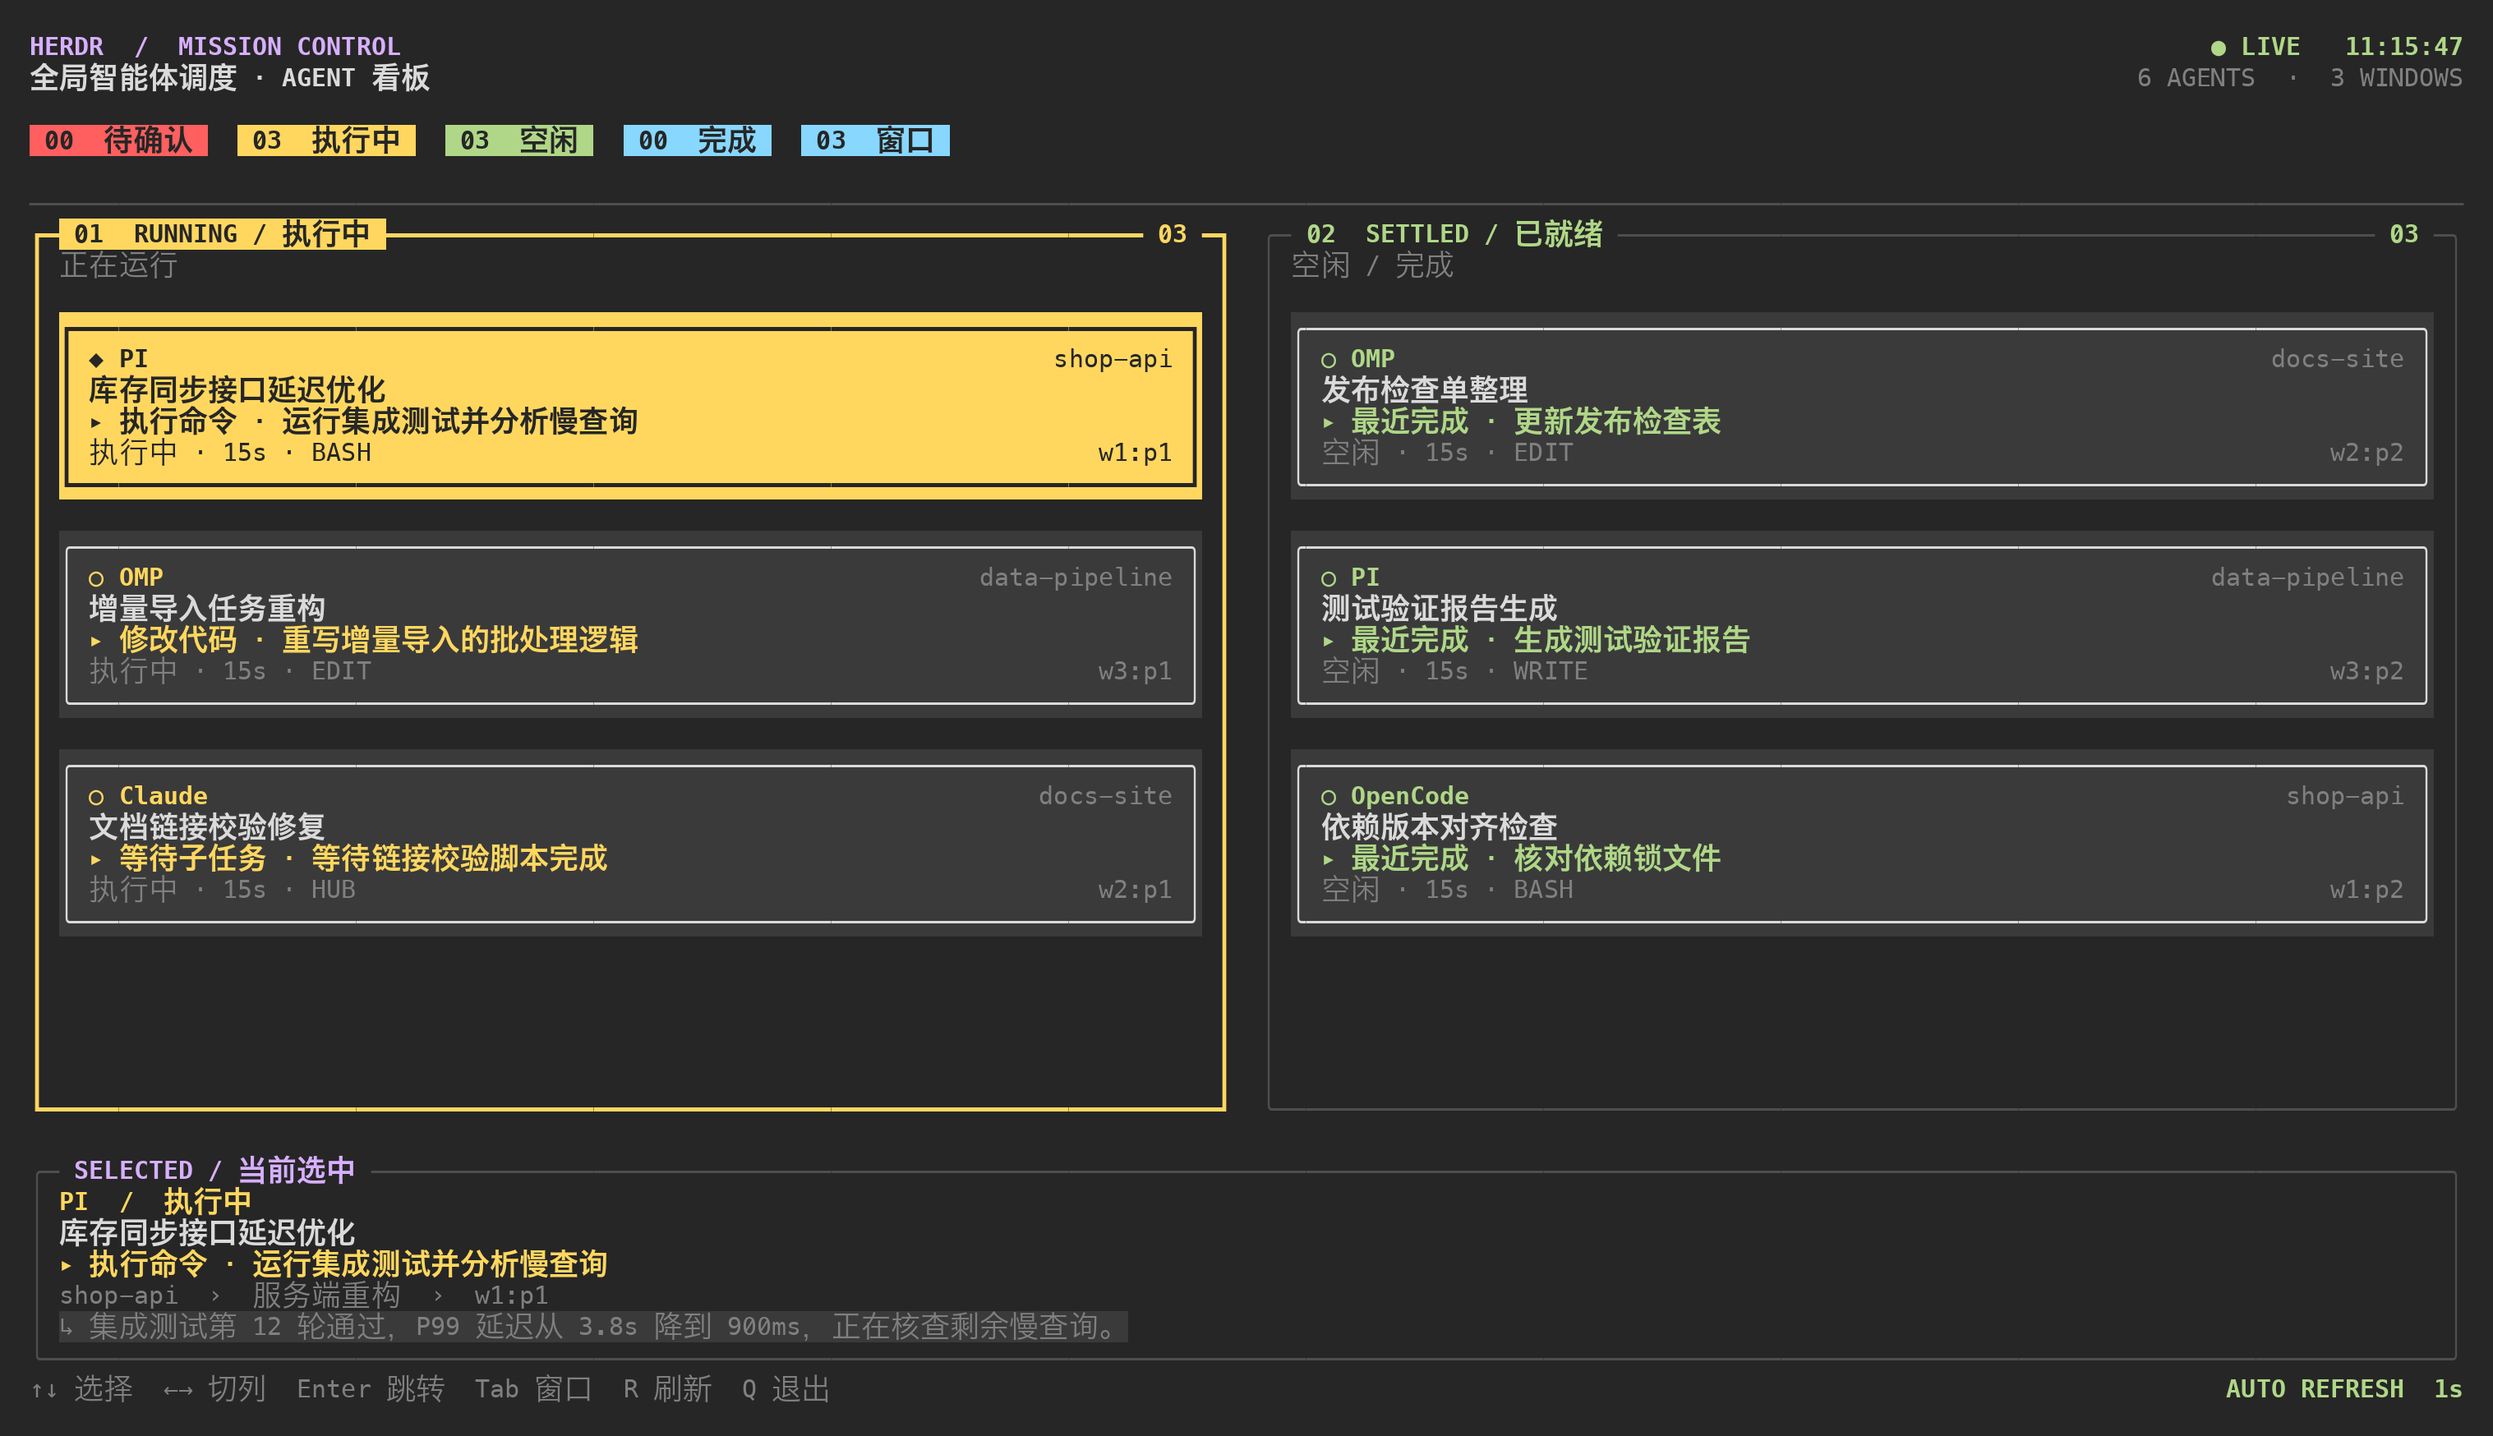
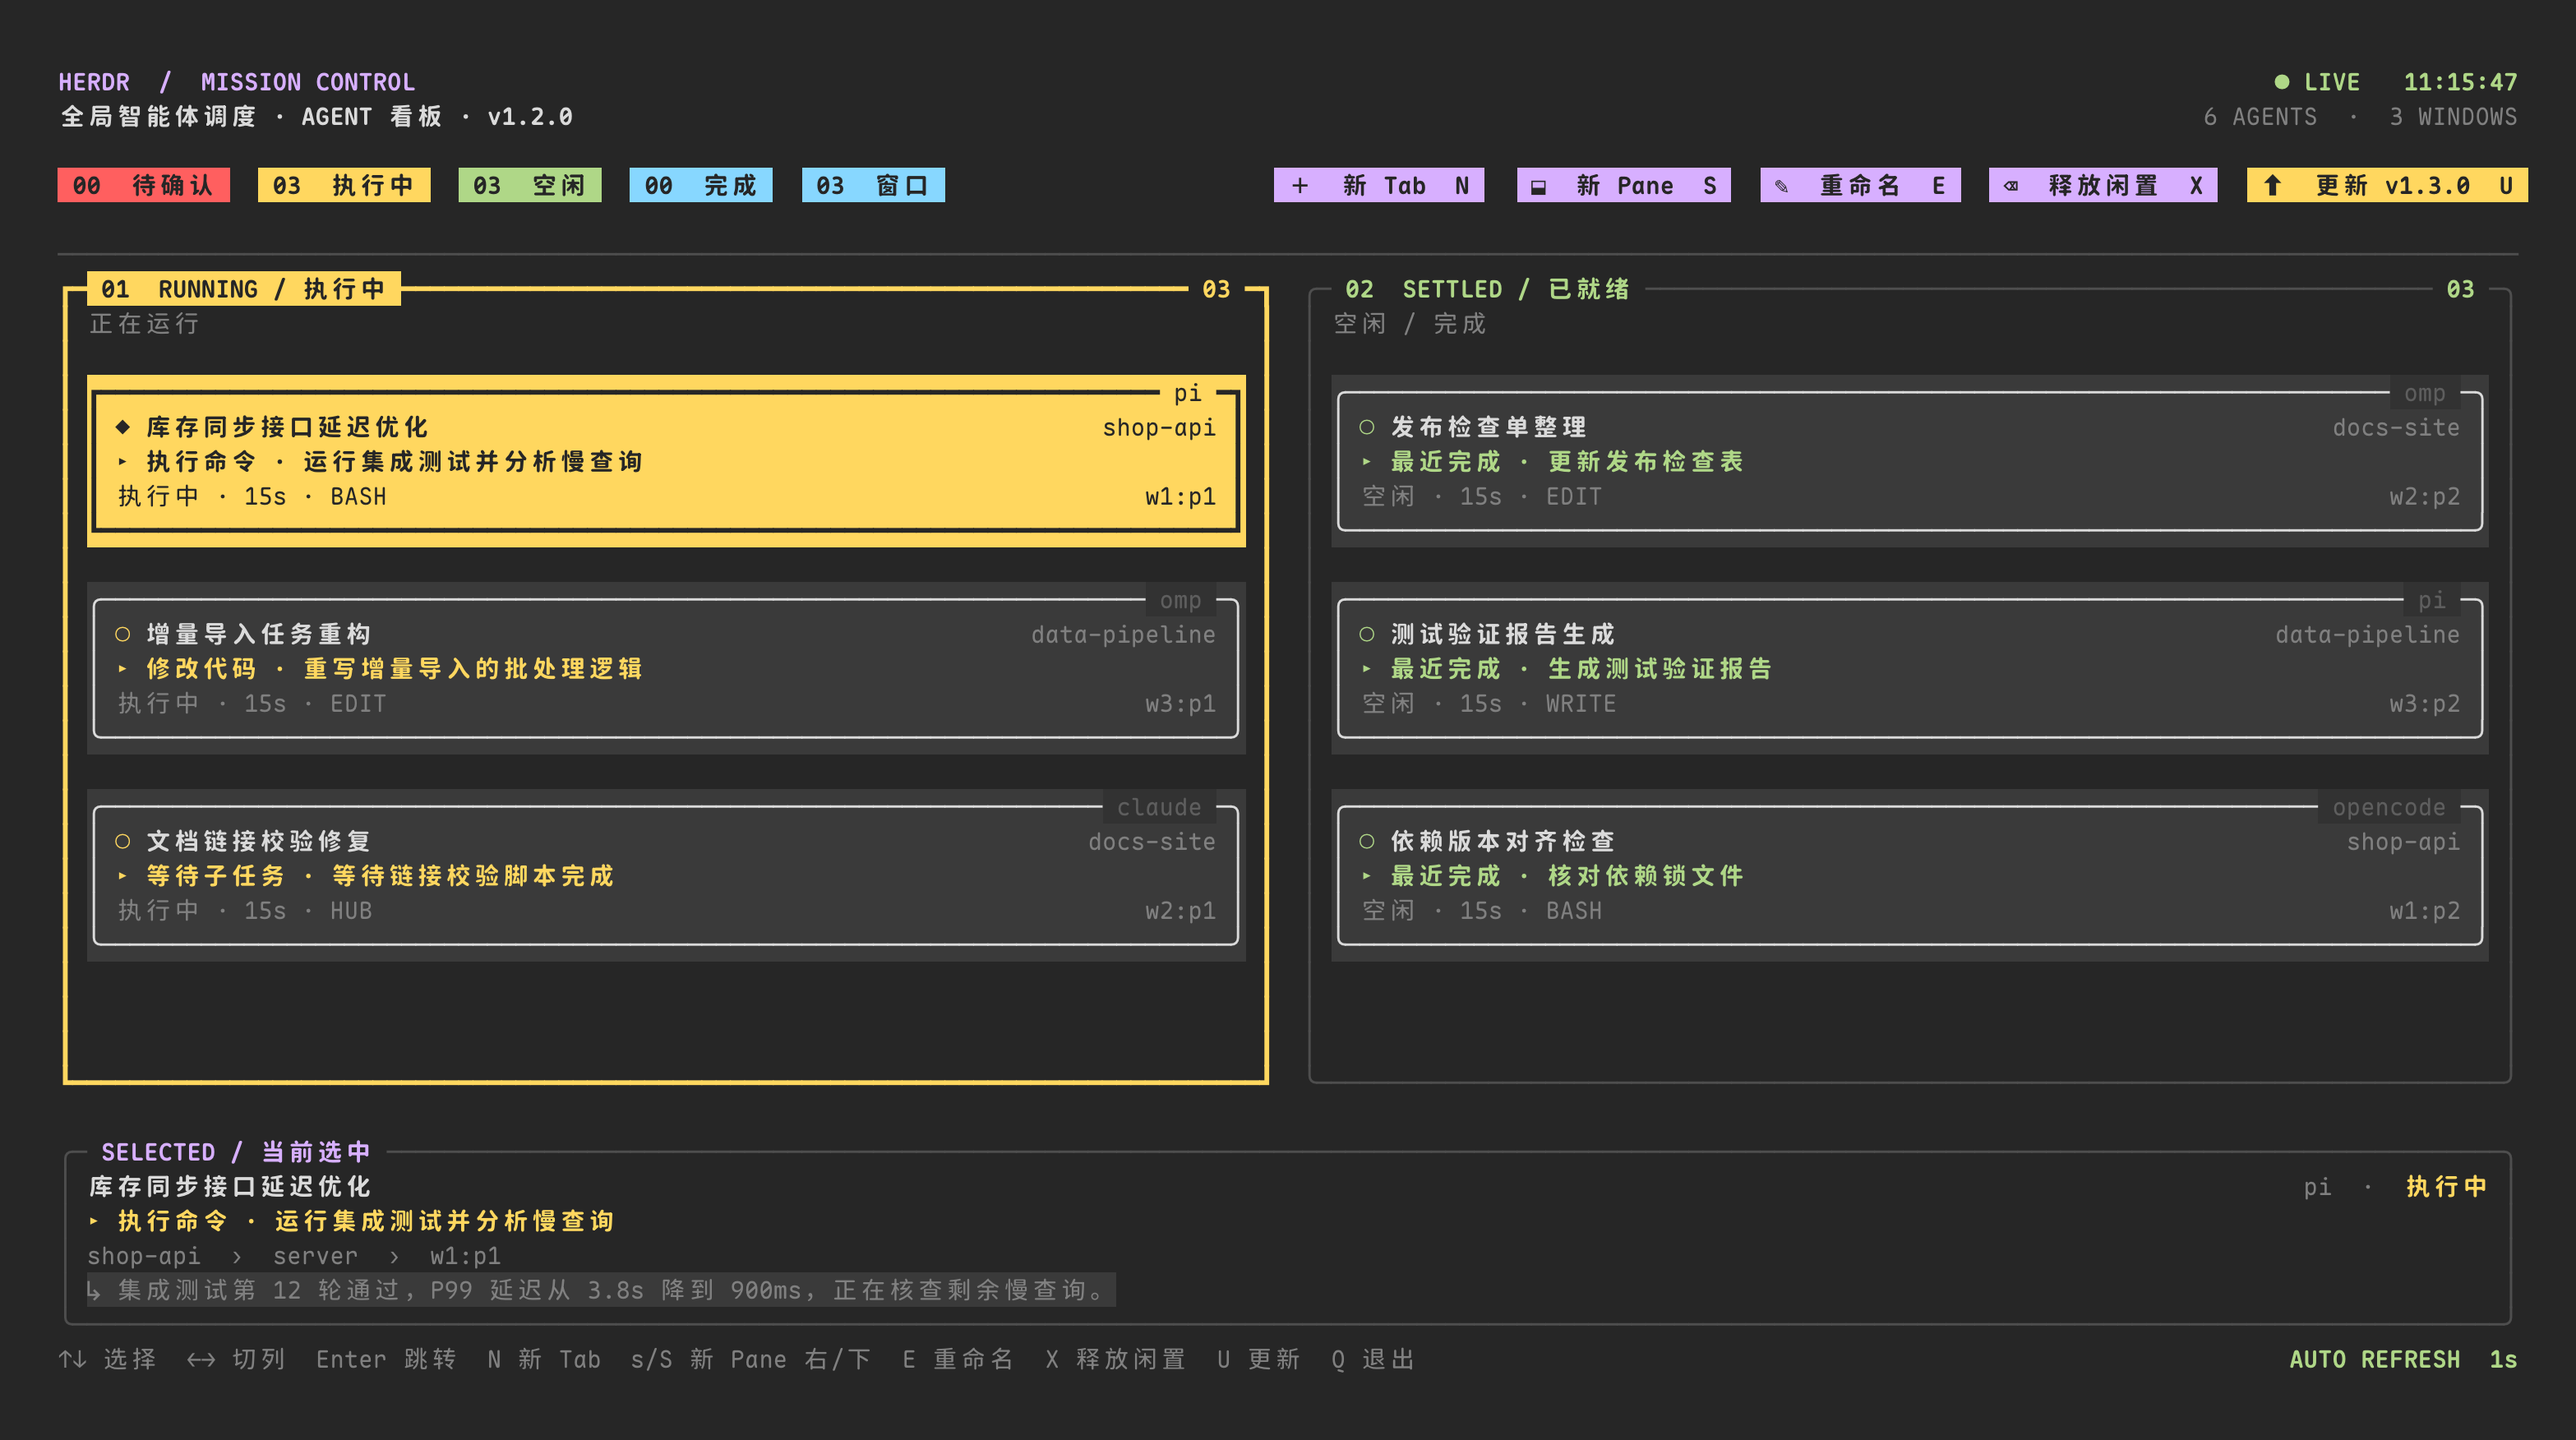
docs: 用当前 TUI 重拍脱敏看板截图
- assets/tui-board.png 换成 1.2.0 版界面：表头版本号 + 新 Tab / 新 Pane / 重命名 / 释放闲置 / 更新五个动作按钮，页脚为新快捷键
- 数据全为编造的演示数据（shop-api / data-pipeline / docs-site），渲染走真实 Board.draw()
- README / README.zh-CN 图注同步说明表头新增内容

diff --git a/README.md b/README.md
@@ -37,7 +37,7 @@ No window switching, no mouse hunt, no "which tab was that agent in again". `Ctr
 
 ![web windows](assets/web-windows.png)
 
-**TUI board** (real curses render, redacted demo data): nothing is blocked here, so the board collapses to two columns — *running* and *ready* — while keeping the real selection state, detail bar, and key hints.
+**TUI board** (real curses render, redacted demo data): nothing is blocked here, so the board collapses to two columns — *running* and *ready*. The header carries the installed version plus five clickable actions (new tab / new pane / rename / reclaim / the update button that only shows when you are behind), with the real selection state, detail bar, and key hints below.
 
 ![tui board](assets/tui-board.png)
 

diff --git a/README.zh-CN.md b/README.zh-CN.md
@@ -37,7 +37,7 @@ Enter            跳到该 pane —— 看板在跳转的同时自己关掉
 
 ![web windows](assets/web-windows.png)
 
-**TUI 看板**（真实 TUI 渲染 · 脱敏演示数据）：图中待确认为空，因此自动收起为「执行中 / 已就绪」两列；保留真实选中态、详情栏与快捷键提示。
+**TUI 看板**（真实 TUI 渲染 · 脱敏演示数据）：图中待确认为空，因此自动收起为「执行中 / 已就绪」两列；表头带当前版本、五个可点动作入口（新 Tab / 新 Pane / 重命名 / 释放闲置 / 有新版时的更新按钮），下方是真实选中态、详情栏与快捷键提示。
 
 ![tui board](assets/tui-board.png)
 
